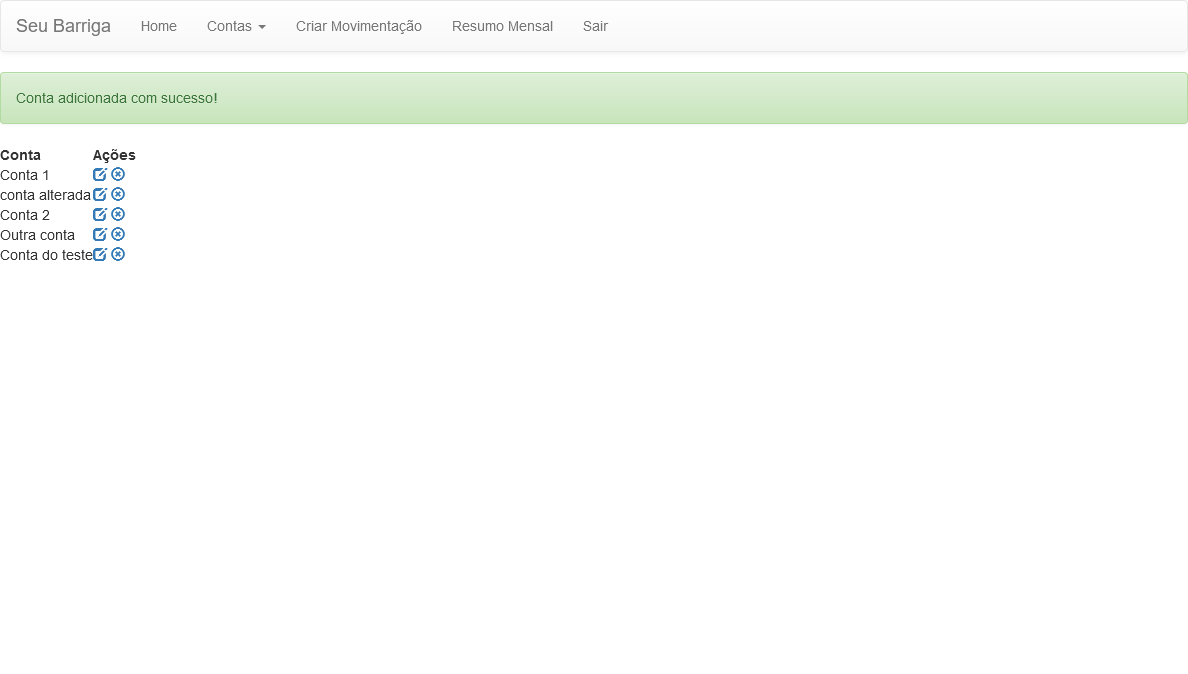
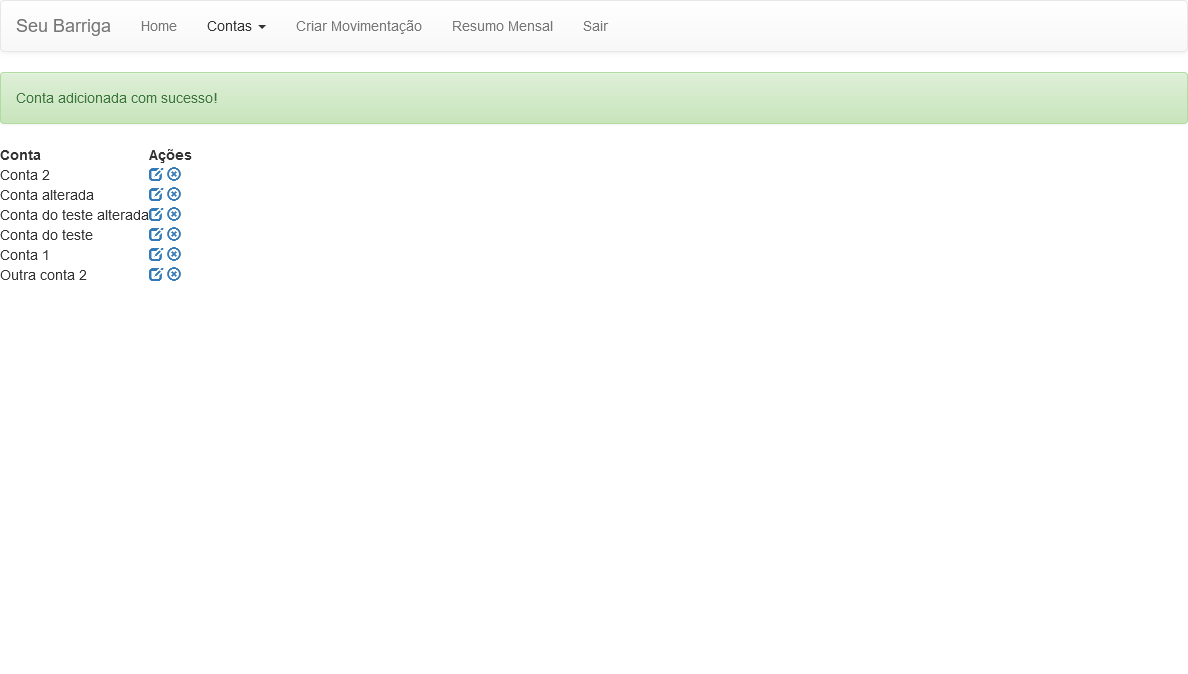
Curso Selenium Webdriver, instância Sr Barriga - Alterar conta

Changed region(s): [[0.0, 0.2181, 0.1557, 0.4362], [0.1869, 0.0312, 0.218, 0.0623]]

diff --git a/src/main/java/br/pb/fcoaraujo/core/BasePage.java b/src/main/java/br/pb/fcoaraujo/core/BasePage.java
@@ -182,9 +182,9 @@ public class BasePage {
 	
 	/***************Tabela***************/
 	
-	public void clicarBotaoTabela(String colunaBusca, String valor, String colunaBotao, String idTabela) {
+	public WebElement obterCelula(String colunaBusca, String valor, String colunaBotao, String idTabela) {
 		//procurar coluna do registro
-		WebElement tabela = getDriver().findElement(By.xpath("//*[@id='elementosForm:tableUsuarios']"));
+		WebElement tabela = getDriver().findElement(By.xpath("//*[@id='"+idTabela+"']"));
 		int idColuna = obterIndiceColuna(colunaBusca, tabela);
 			
 	
@@ -196,6 +196,11 @@ public class BasePage {
 	
 		//clicar no botao da celula encontrada
 		WebElement celula = tabela.findElement(By.xpath(".//tr["+idLinha+"]/td["+idColunaBotao+"]"));
+		return celula;
+	}
+	
+	public void clicarBotaoTabela(String colunaBusca, String valor, String colunaBotao, String idTabela) {
+		WebElement celula = obterCelula(colunaBusca, valor, colunaBotao, idTabela);
 		celula.findElement(By.xpath(".//input")).click();
 	}
 	

diff --git a/src/main/java/br/pb/fcoaraujo/tests/ContaTest.java b/src/main/java/br/pb/fcoaraujo/tests/ContaTest.java
@@ -21,5 +21,16 @@ public class ContaTest extends BaseTest {
 		
 		Assert.assertEquals("Conta adicionada com sucesso!", contasPage.obterMensagemSucesso());
 	}
+	
+	@Test
+	public void testAlterarConta() {
+		menuPage.acessarTelaListarConta();
+		
+		contasPage.clicarAlterarConta("Conta do teste");
+		
+		contasPage.setNome("Conta do teste alterada");
+		contasPage.salvar();
+		Assert.assertEquals("Conta alterada com sucesso!", contasPage.obterMensagemSucesso());
+	}
 
 }

diff --git a/src/main/java/br/pb/fcoaraujo/pages/MenuPage.java b/src/main/java/br/pb/fcoaraujo/pages/MenuPage.java
@@ -8,5 +8,10 @@ public class MenuPage extends BasePage {
 		clicarlink("Contas");
 		clicarlink("Adicionar");
 	}
+	
+	public void acessarTelaListarConta() {
+		clicarlink("Contas");
+		clicarlink("Listar");
+	}
 
 }
